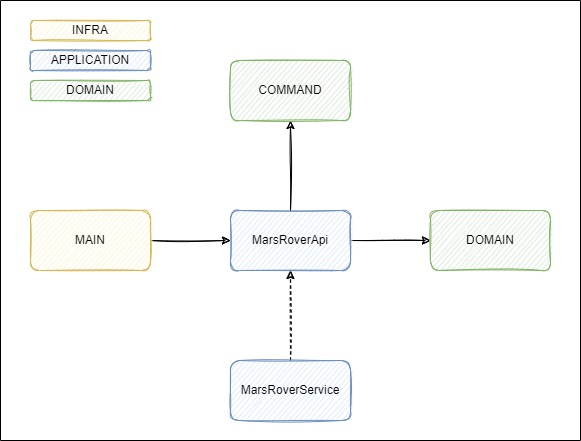
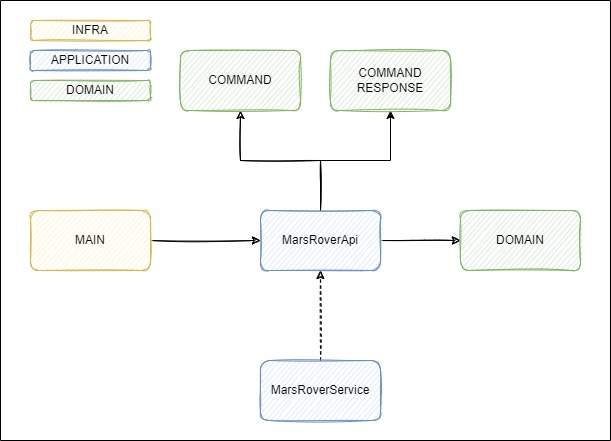
Updated skeleton

diff --git a/src/main/kotlin/mars/rover/domain/Command.kt b/src/main/kotlin/mars/rover/domain/Command.kt
@@ -3,6 +3,7 @@ package mars.rover.domain
 sealed class Command {
 
     data class CreatePlateauCommand(val width: Int, val height: Int) : Command()
+    data class PlaceMarsRoverCommand(val position: Position, val direction: Direction) : Command()
     data class MoveMarsRoverCommand(val order: MovementOrder) : Command()
 
     enum class MovementOrder {

diff --git a/src/main/kotlin/mars/rover/application/MarsRoverApi.kt b/src/main/kotlin/mars/rover/application/MarsRoverApi.kt
@@ -1,9 +1,10 @@
 package mars.rover.application
 
 import mars.rover.domain.Command
+import mars.rover.domain.CommandResponse
 
 interface MarsRoverApi {
 
-    fun handle(command: Command)
+    fun handle(command: Command): CommandResponse
 
 }

diff --git a/src/main/kotlin/mars/rover/domain/CommandResponse.kt b/src/main/kotlin/mars/rover/domain/CommandResponse.kt
@@ -1,0 +1,7 @@
+package mars.rover.domain
+
+sealed class CommandResponse {
+
+    object EmptyResponse : CommandResponse()
+    data class PositionResponse(val position: Position) : CommandResponse()
+}

diff --git a/src/main/kotlin/mars/rover/domain/Direction.kt b/src/main/kotlin/mars/rover/domain/Direction.kt
@@ -1,0 +1,3 @@
+package mars.rover.domain
+
+enum class Direction { NORTH, EAST, SOUTH, WEST }

diff --git a/src/main/kotlin/mars/rover/domain/Position.kt b/src/main/kotlin/mars/rover/domain/Position.kt
@@ -1,0 +1,3 @@
+package mars.rover.domain
+
+data class Position(val x: Int, val y: Int)
